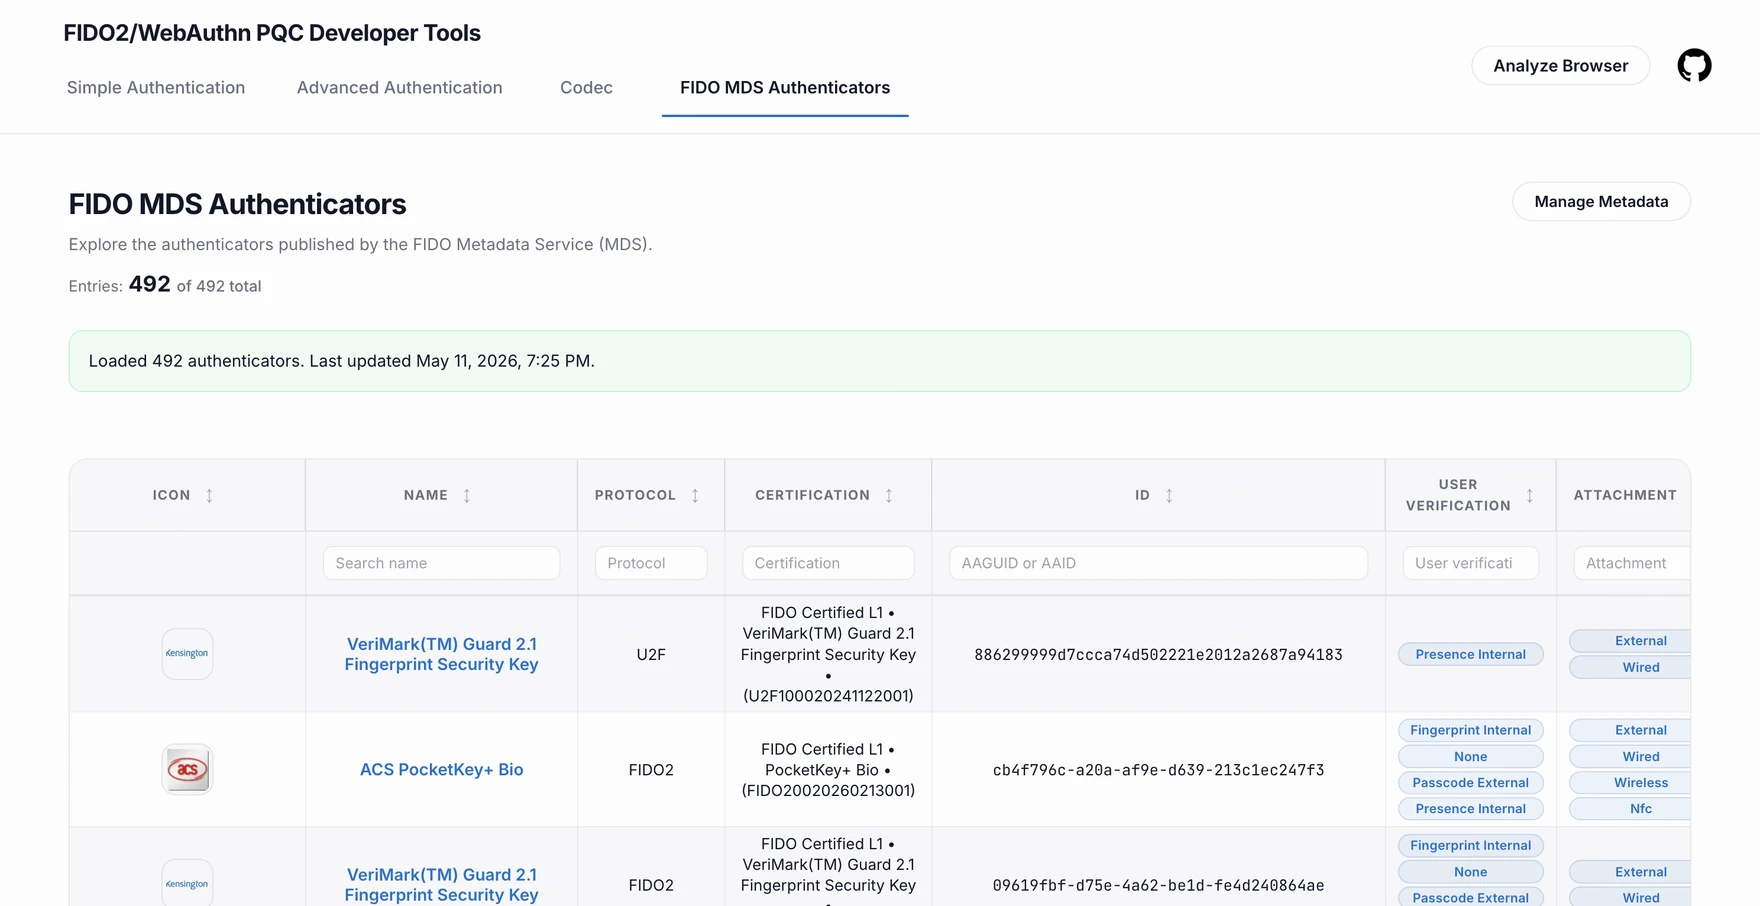
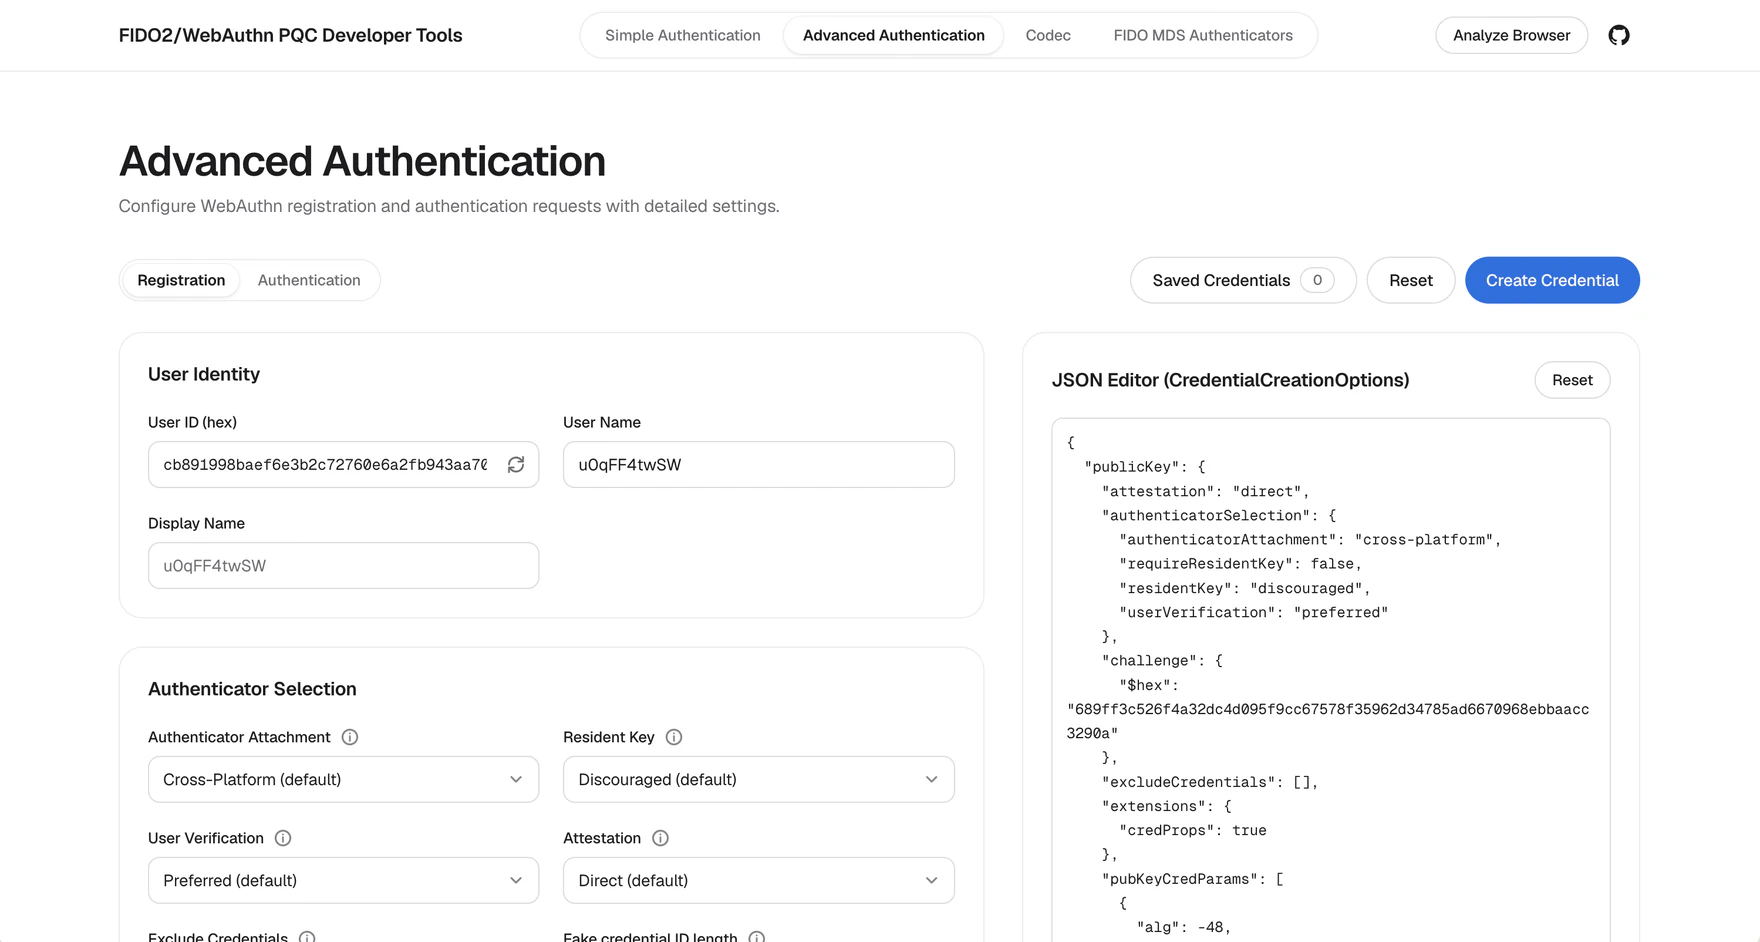
Replace the WebAuthn platform screenshot with the Advanced Authentication tab

diff --git a/lib/content/ja.ts b/lib/content/ja.ts
@@ -270,7 +270,7 @@ export const ja: Copy = {
       ],
       image: {
         src: '/projects/webauthn-platform.webp',
-        alt: 'WebAuthn 開発者向けプラットフォームの「FIDO MDS Authenticators」タブ。FIDO メタデータサービスの認証器を検索できる一覧表',
+        alt: 'WebAuthn 開発者向けプラットフォームの「Advanced Authentication」タブ。登録の設定項目と、credential 作成オプションを編集する JSON エディター',
         width: 1600,
         height: 800,
       },

diff --git a/lib/content/en.ts b/lib/content/en.ts
@@ -266,7 +266,7 @@ export const en: Copy = {
       ],
       image: {
         src: '/projects/webauthn-platform.webp',
-        alt: 'The FIDO MDS Authenticators tab of the WebAuthn developer platform, with a searchable table of authenticators from the FIDO Metadata Service',
+        alt: 'The Advanced Authentication tab of the WebAuthn developer platform, with registration settings beside a JSON editor for the credential creation options',
         width: 1600,
         height: 800,
       },
